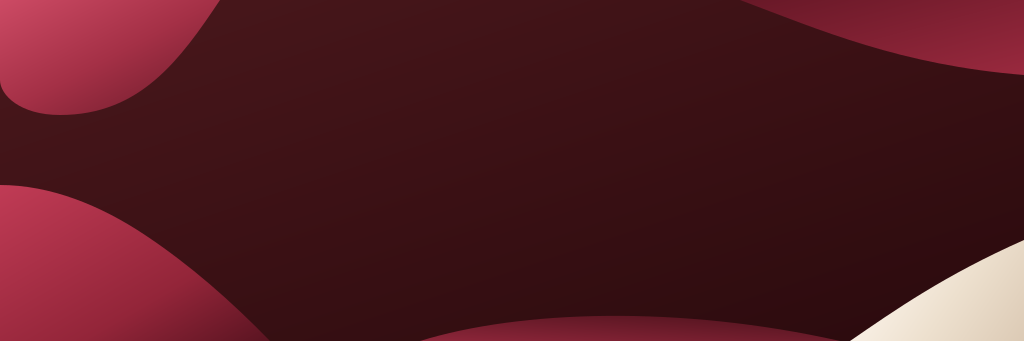
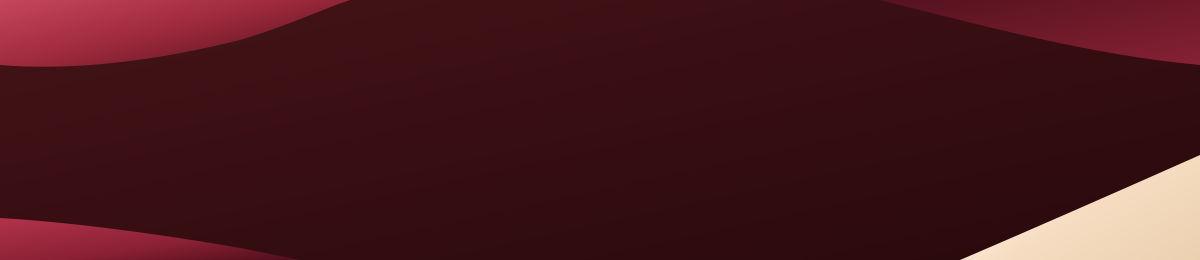
fix(storefront): ajusta tipografia sem quebra indevida, posicionamento e ondas da secao confeitaria

diff --git a/apps/storefront/components/storefront/widgets/video-articles-carousel/video-articles-carousel.tsx b/apps/storefront/components/storefront/widgets/video-articles-carousel/video-articles-carousel.tsx
@@ -51,7 +51,7 @@ export function VideoArticlesCarouselWidget({
     viewAllUrl || (isConfeitaria ? '/eventos/workshops/aulas-confeitaria' : '/post');
 
   const bgContainerClass = isConfeitaria ? 'bg-[#3d1316]' : 'bg-[#cb001c]';
-  const navArrowClass = isConfeitaria ? 'text-[#b82344]' : 'text-[#e2091e]';
+  const navArrowClass = isConfeitaria ? 'text-[#c42646]' : 'text-[#e2091e]';
 
   const handleScroll = (e: React.UIEvent<HTMLDivElement>) => {
     const el = e.currentTarget;
@@ -123,26 +123,32 @@ export function VideoArticlesCarouselWidget({
       )}
 
       {/* Coluna Esquerda: Título Oficial + Subtítulo Perfeitamente Diagramado */}
-      <div className="z-10 max-w-[210px] sm:max-w-[230px] lg:max-w-[215px] xl:max-w-[235px] lg:absolute lg:left-7 xl:left-8 lg:top-1/2 lg:-translate-y-1/2">
+      <div
+        className={`z-10 ${
+          isConfeitaria
+            ? 'max-w-[260px] sm:max-w-[270px] lg:max-w-[270px] xl:max-w-[285px]'
+            : 'max-w-[200px] sm:max-w-[220px] lg:max-w-[205px] xl:max-w-[225px]'
+        } lg:absolute lg:left-7 xl:left-8 lg:top-1/2 lg:-translate-y-1/2`}
+      >
         {isConfeitaria ? (
           <>
             <h2
-              className="text-2xl sm:text-[27px] lg:text-[29px] xl:text-[31px] font-bold leading-[1.04] tracking-tight"
+              className="text-2xl sm:text-[26px] lg:text-[27px] xl:text-[29px] font-bold leading-[1.08] tracking-tight"
               style={{ fontFamily: 'Georgia, "Playfair Display", serif' }}
             >
-              <span className="block text-white">Workshops &amp;</span>
-              <span className="block text-white">Aulas Práticas</span>
-              <span className="flex items-center gap-2 mt-0.5">
-                <span className="text-[#d87489]">de Confeitaria</span>
+              <span className="block text-white whitespace-nowrap">Workshops &amp;</span>
+              <span className="block text-white whitespace-nowrap">Aulas Práticas</span>
+              <span className="flex items-center gap-2 mt-0.5 whitespace-nowrap">
+                <span className="text-[#e26678]">de Confeitaria</span>
                 <span
                   aria-hidden="true"
-                  className="inline-flex size-6 sm:size-7 items-center justify-center rounded-full border-2 border-[#d87489] bg-[#d87489]/25 text-[#d87489] shadow-sm shrink-0"
+                  className="inline-flex size-6 sm:size-6.5 items-center justify-center rounded-full border-2 border-[#e26678] bg-[#e26678]/25 text-[#e26678] shadow-sm shrink-0"
                 >
-                  <Play className="size-3 sm:size-3.5 fill-[#d87489] ml-0.5 text-[#d87489]" />
+                  <Play className="size-2.5 sm:size-3 fill-white ml-0.5 text-white" />
                 </span>
               </span>
             </h2>
-            <div className="mt-3 border-l-2 border-[#d87489] pl-2.5 text-xs sm:text-[12px] xl:text-[12.5px] leading-snug text-white/95 font-normal">
+            <div className="mt-3 border-l-[2.5px] border-[#e26678] pl-2.5 sm:pl-3 text-xs sm:text-[12px] xl:text-[12.5px] leading-snug text-white/95 font-normal">
               <p className="block">Faça suas compras e ganhe</p>
               <p className="block">
                 treinamento <span className="font-bold text-white">gratuitamente.</span>
@@ -190,7 +196,7 @@ export function VideoArticlesCarouselWidget({
         aria-hidden="true"
         className={`hidden lg:block absolute bottom-0 ${
           isConfeitaria
-            ? 'left-[17.5%] xl:left-[18.5%] h-[97%] xl:h-[98%] w-[27%] max-w-[280px] min-w-[220px]'
+            ? 'left-[20.5%] xl:left-[21.5%] h-[95%] xl:h-[96%] w-[21.5%] max-w-[230px]'
             : 'left-[14.5%] xl:left-[15.5%] h-[92%] xl:h-[93%] w-[26%] max-w-[265px] min-w-[220px]'
         } z-10 pointer-events-none select-none`}
       >
@@ -206,7 +212,7 @@ export function VideoArticlesCarouselWidget({
       {/* Mascote compacto para tablets */}
       <div
         aria-hidden="true"
-        className="hidden md:block lg:hidden absolute top-3 right-24 h-24 w-24 pointer-events-none select-none z-10"
+        className="hidden md:block lg:hidden absolute top-2 right-28 h-24 w-24 pointer-events-none select-none z-10"
       >
         <Image
           src={resolvedMascotImage}

diff --git a/apps/storefront/lib/storefront/home-configuration.ts b/apps/storefront/lib/storefront/home-configuration.ts
@@ -325,6 +325,17 @@ export const defaultHomeComposition: PageComposition = {
         mascotImageUrl: "/assets/nort-segmentos.png",
         items: [
           {
+            id: "seg-bar",
+            prefix: "Para",
+            title: "Bar & Distribuidora",
+            description:
+              "Copos chopp e cerveja descartáveis, petisqueiras, guardanapos de balcão e sacolas reforçadas.",
+            iconType: "bar",
+            imageUrl:
+              "/assets/HOME Vitrine/S8-CARDS-Segmentos/s08-segment-08-sustentaveis.jpg",
+            linkUrl: "/segmento/bar-distribuidora",
+          },
+          {
             id: "seg-lanchonete",
             prefix: "Para",
             title: "Lanchonete",
@@ -411,17 +422,6 @@ export const defaultHomeComposition: PageComposition = {
             imageUrl:
               "/assets/HOME Vitrine/S8-CARDS-Segmentos/s08-segment-07-acai.jpg",
             linkUrl: "/segmento/sorveteria-acai",
-          },
-          {
-            id: "seg-bar",
-            prefix: "Para",
-            title: "Bar & Distribuidora",
-            description:
-              "Copos chopp e cerveja descartáveis, petisqueiras, guardanapos de balcão e sacolas reforçadas.",
-            iconType: "bar",
-            imageUrl:
-              "/assets/HOME Vitrine/S8-CARDS-Segmentos/s08-segment-08-sustentaveis.jpg",
-            linkUrl: "/segmento/bar-distribuidora",
           },
         ],
       },
@@ -699,9 +699,7 @@ export const defaultHomeComposition: PageComposition = {
             tags: ["WORKSHOP", "BOLOS DECORADOS"],
             title: "Técnicas de decoração para bolos e tortas",
             paragraphs: [
-              "Aprenda acabamento, recheio,",
-              "montagem e apresentação",
-              "com foco prático.",
+              "Aprenda acabamento, recheio, montagem e apresentação com foco prático.",
             ],
             ctaLabel: "Ver Completo",
             ctaUrl: "/eventos/workshops/aulas-confeitaria",
@@ -712,9 +710,7 @@ export const defaultHomeComposition: PageComposition = {
             tags: ["AULA PRÁTICA", "DOCES FINOS"],
             title: "Doces finos e sobremesas para vender",
             paragraphs: [
-              "Descubra receitas, finalização",
-              "e embalagem para valorizar",
-              "sua produção.",
+              "Descubra receitas, finalização e embalagem para valorizar sua produção.",
             ],
             ctaLabel: "Ver Completo",
             ctaUrl: "/eventos/workshops/aulas-confeitaria",
